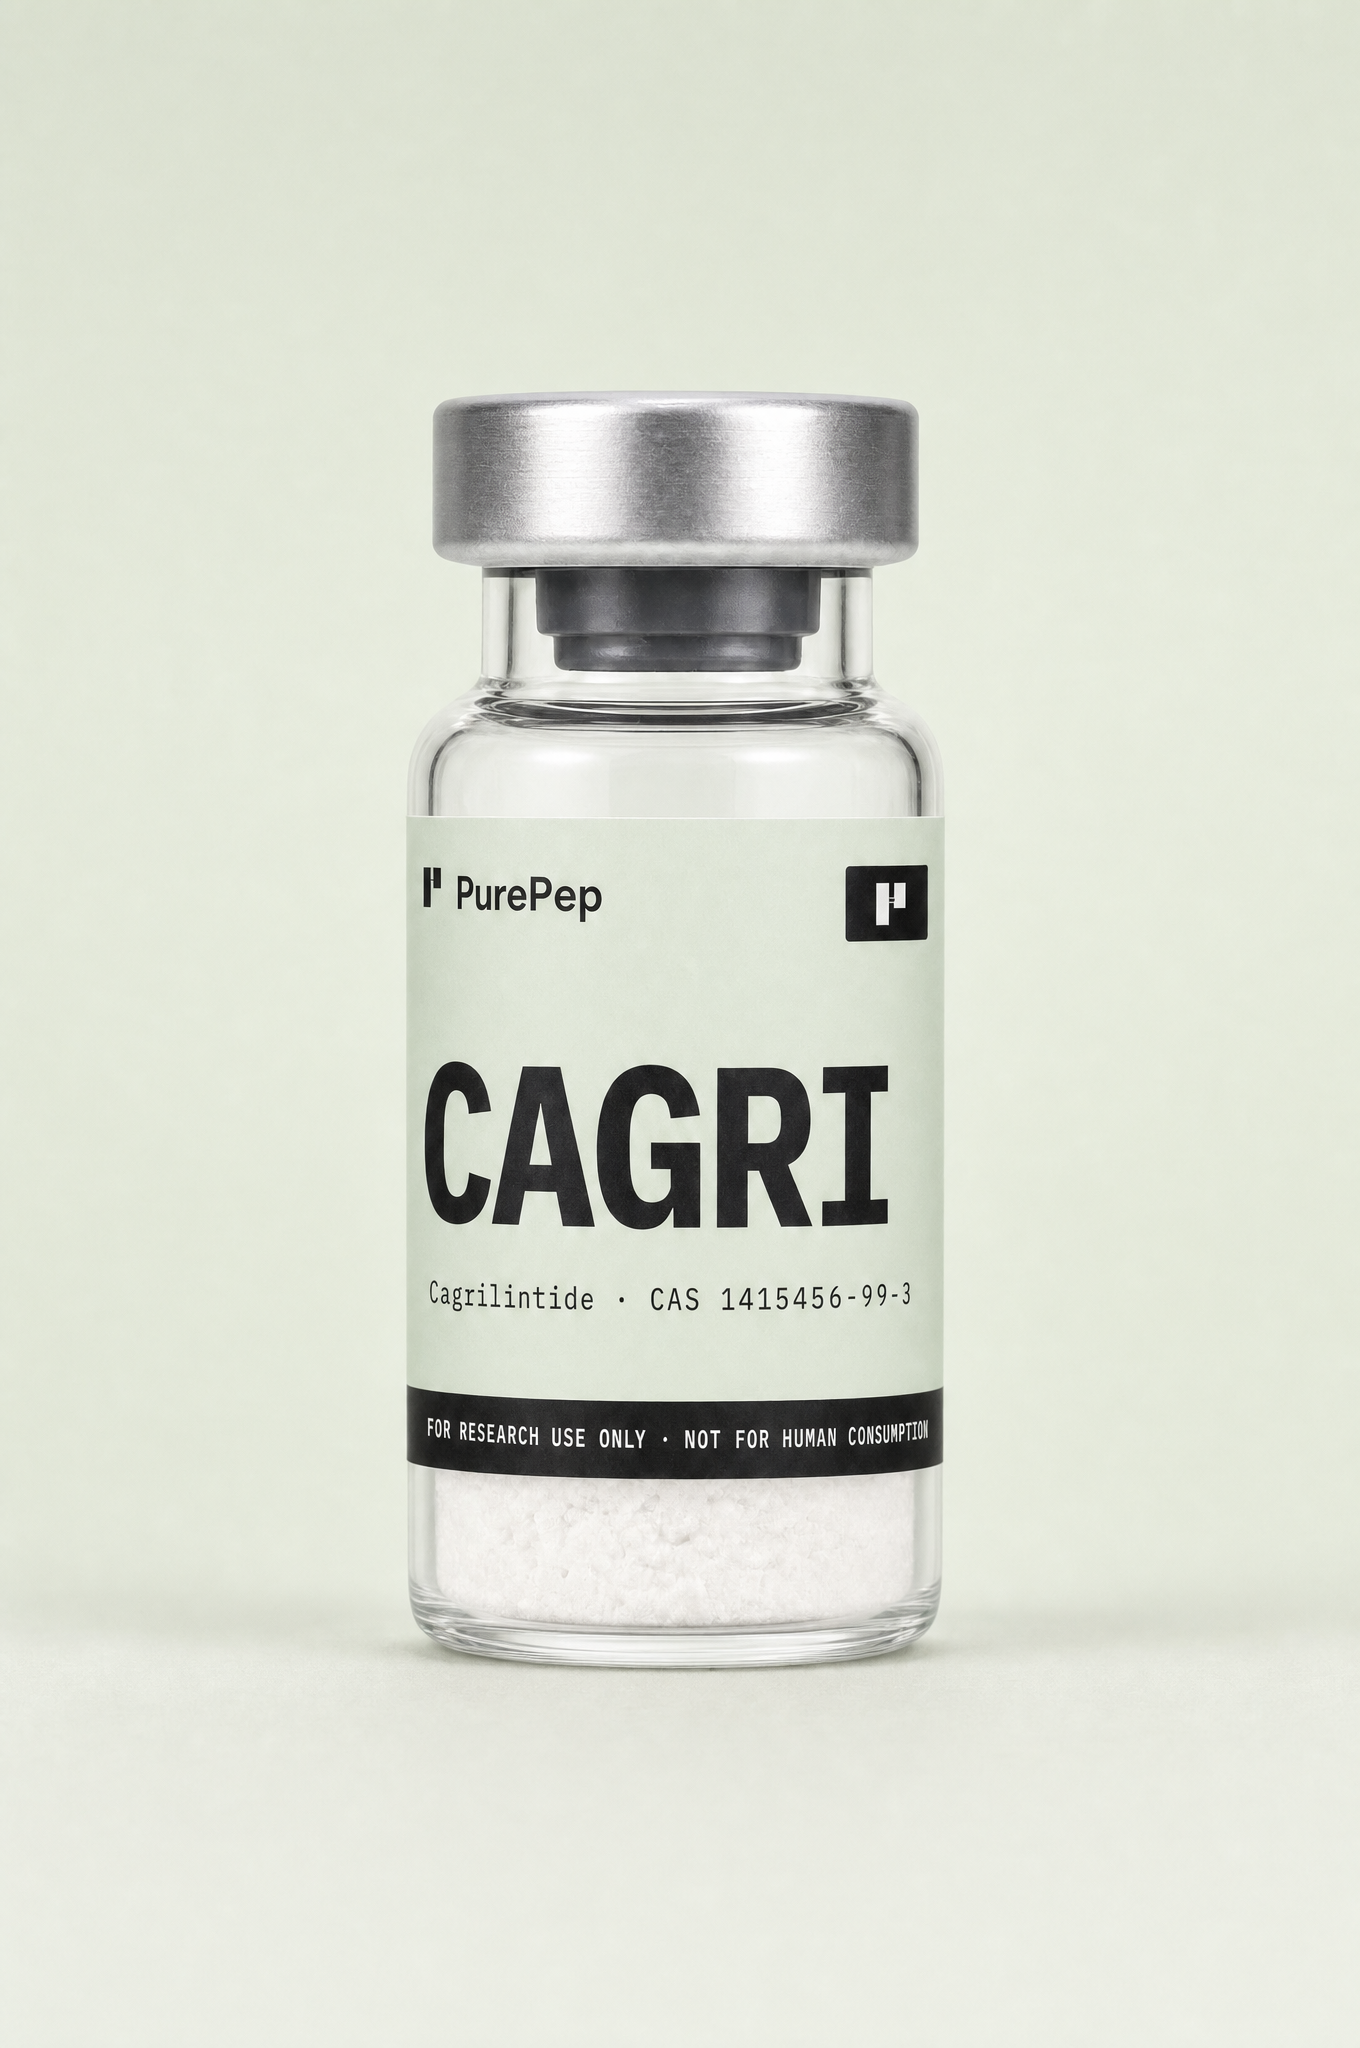
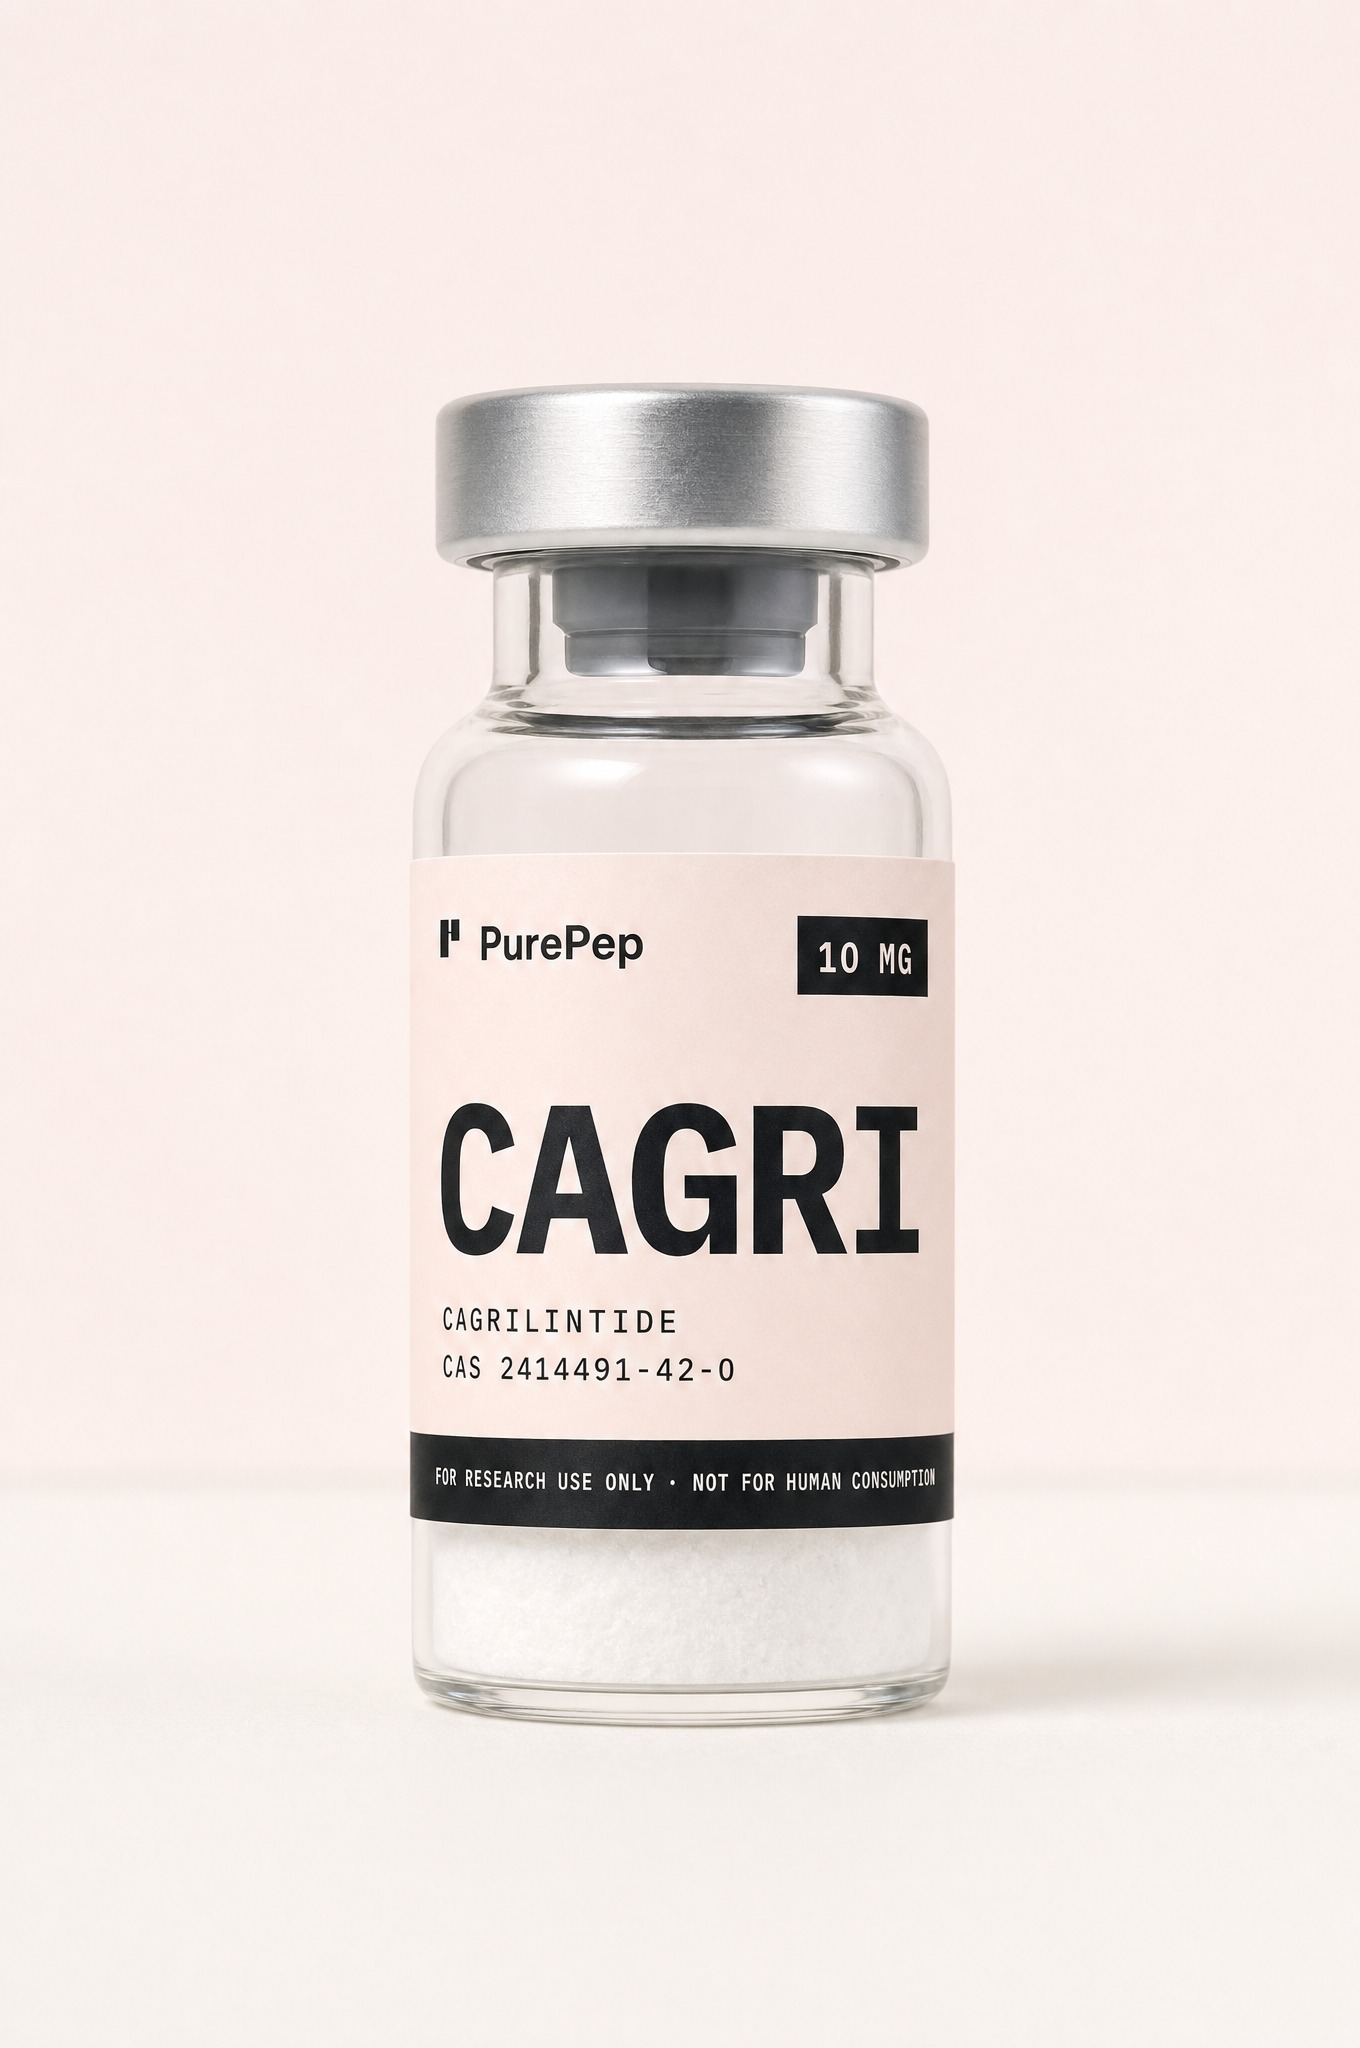
fix(images): use canonical brand 10mg photos as hero.png for all 8 SKUs
Replaced AI-generated renders (incorrect label packaging) with the
authoritative reta/sema/tirz/cagri/bpc-157/tb-500/ghk-cu/mots-c 10mg
brand photos. Updated render script to use SKU-specific brand images as
geometry references and backdropUpper/backdropShelf for backdrop color.

diff --git a/scripts/render-product-photos.ts b/scripts/render-product-photos.ts
@@ -30,9 +30,7 @@ import { LABEL_SKUS, type LabelSku } from "../src/lib/labels/skus.js";
 
 const __dirname = dirname(fileURLToPath(import.meta.url));
 const ROOT = join(__dirname, "..");
-const REFS_DIR = join(ROOT, "references");
-const REF_SEMA = join(REFS_DIR, "sema-10mg.jpg");
-const REF_TB500 = join(REFS_DIR, "tb-500-10mg.jpg");
+const BRAND_DIR = join(ROOT, "public", "brand", "products");
 const PRODUCTS_DIR = join(ROOT, "public", "products");
 
 // ---------------------------------------------------------------------------
@@ -63,48 +61,49 @@ function parseArgs(): Args {
 // ---------------------------------------------------------------------------
 
 function buildPrompt(sku: LabelSku): string {
-  return `A single peptide research vial, photorealistic editorial product \
-photograph. The vial geometry, lighting, framing, depth-of-field, \
-stopper, crimp seal, glass clarity, and powder fill level must \
-match the provided reference images exactly. The two reference \
-images show the canonical PurePep vial — replicate them precisely.
+  return `Photorealistic editorial product photograph of a single peptide \
+research vial. The first two reference images show the EXACT canonical \
+${sku.abbreviation} vial — replicate the packaging layout, label position, \
+label color, stopper, crimp seal, glass, and powder fill level \
+with pixel-perfect fidelity. This is the authoritative source of truth \
+for how this product looks.
 
-Apply the provided label artwork to the vial. The label wraps the \
-lower 60% of the vial body. Label print must appear matte and crisp, \
-no glossy reflections on label surface.
+CRITICAL — label: The third reference image is the updated label artwork. \
+Apply it directly over the label area visible in the first two references. \
+Label background color is ${sku.labelBg}. Preserve the dark ink border, \
+the compound code, the compliance bar at the bottom of the label, and the \
+τ (tau) brand mark replacing the dose pill in the upper-right area. \
+Label surface: matte, crisp, no gloss or reflections.
 
-Backdrop: solid ${sku.labelBg} matte studio cyc, fading to a \
-slightly darker tone at the floor where the vial sits. Match the \
-backdrop character of the reference images.
+Backdrop: match the seamless studio backdrop shown in the first two \
+reference images exactly — same color family (${sku.backdropUpper} upper, \
+${sku.backdropShelf} shelf), same soft gradient sweep to floor.
 
-Vial position: centered horizontally, sitting on a flat matte \
-surface. Generous negative space above and around. Match the \
-framing of the reference images exactly.
+Vial position: perfectly upright, 90 degrees vertical, no tilt. Centered \
+horizontally. Generous negative space above and on both sides, matching \
+the framing of the reference images.
 
 White lyophilized powder visible in the lower ~25% of the vial, \
-matching the powder fill level of the reference images exactly. \
-Same fill level for every SKU — do not vary by compound.
+matching the fill level shown in the reference images exactly.
 
-No text overlay. No watermark. No additional elements. The image \
-shows only the vial and the matte backdrop.`;
+No text overlay. No watermark. No added props. Only vial and backdrop.`;
 }
 
 // ---------------------------------------------------------------------------
 // Higgsfield call — product_shot mode, 3 reference images
 // ---------------------------------------------------------------------------
 
-function runHighgsfield(sku: LabelSku, labelPhoto: string, outPath: string): string {
+function runHighgsfield(sku: LabelSku, refs: string[], outPath: string): string {
   const prompt = buildPrompt(sku);
 
+  const imageArgs = refs.flatMap((r) => ["--image", r]);
   const result = spawnSync(
     "higgsfield",
     [
       "product-photoshoot", "create",
       "--mode", "product_shot",
       "--prompt", prompt,
-      "--image", REF_SEMA,
-      "--image", REF_TB500,
-      "--image", labelPhoto,
+      ...imageArgs,
       "--aspect_ratio", "2:3",
       "--json",
     ],
@@ -194,11 +193,9 @@ function preflight(): void {
     );
     process.exit(1);
   }
-  for (const [label, path] of [["sema reference", REF_SEMA], ["tb-500 reference", REF_TB500]] as const) {
-    if (!existsSync(path)) {
-      console.error(`Missing ${label}: ${path}`);
-      process.exit(1);
-    }
+  if (!existsSync(BRAND_DIR)) {
+    console.error(`Missing brand products dir: ${BRAND_DIR}`);
+    process.exit(1);
   }
   mkdirSync(PRODUCTS_DIR, { recursive: true });
 }
@@ -239,6 +236,14 @@ async function renderOne(sku: LabelSku, args: Args): Promise<RenderResult> {
 
   mkdirSync(dir, { recursive: true });
 
+  // SKU-specific canonical brand photos as geometry references
+  const brand10 = join(BRAND_DIR, `${sku.slug}-10mg.jpg`);
+  const brand5  = join(BRAND_DIR, `${sku.slug}-5mg.jpg`);
+  const refs: string[] = [];
+  if (existsSync(brand10)) refs.push(brand10);
+  if (existsSync(brand5))  refs.push(brand5);
+  refs.push(labelPhoto); // τ glyph label always last
+
   const failReasons: string[] = [];
   let attempts = 0;
 
@@ -247,7 +252,7 @@ async function renderOne(sku: LabelSku, args: Args): Promise<RenderResult> {
     console.log(`  [attempt ${attempts}/${args.maxAttempts}] ${sku.slug}…`);
     const t0 = Date.now();
     try {
-      const url = runHighgsfield(sku, labelPhoto, outPath);
+      const url = runHighgsfield(sku, refs, outPath);
       await downloadAsPng(url, outPath);
       const { size } = statSync(outPath);
       return { slug: sku.slug, outPath, fileSize: size, renderMs: Date.now() - t0, attempts, skipped: false, failed: false, failReasons };
